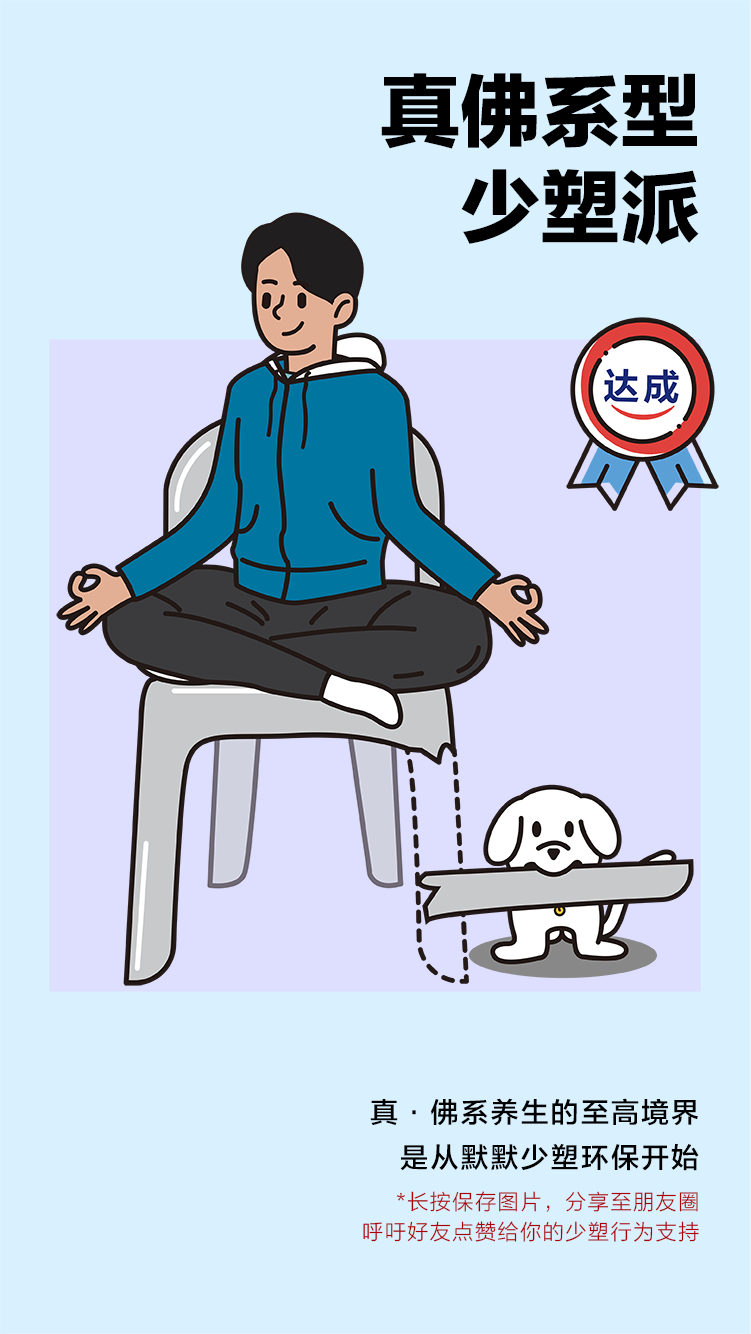
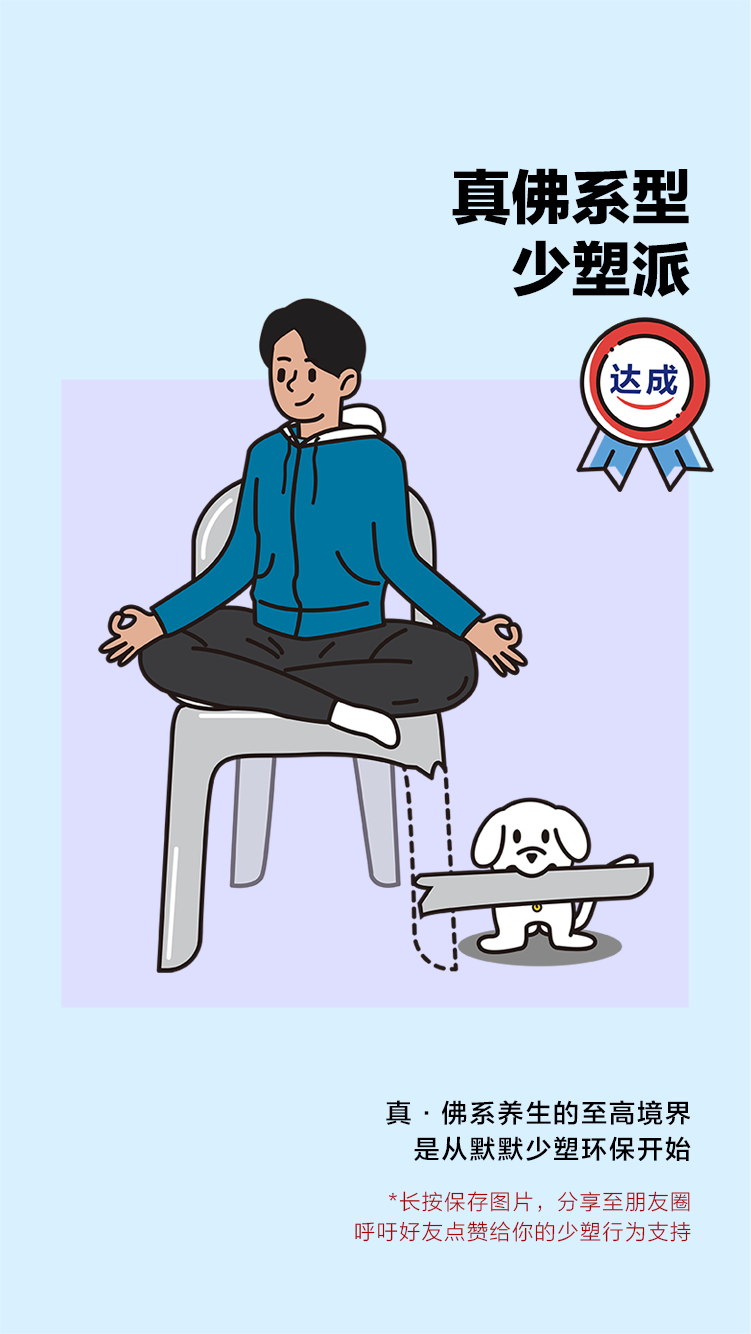
over

Changed region(s): [[0.0613, 0.1537, 0.9188, 0.7376], [0.49, 0.0307, 0.9494, 0.3996], [0.49, 0.7991, 0.9494, 0.9528]]

diff --git a/src/views/danone.vue b/src/views/danone.vue
@@ -1,12 +1,12 @@
 <template>
-    <div style="overflow: hidden;height: 100vh;">
+    <div :class="{isBegin:isBegin}">
         <Loading v-show="showLoading"></Loading>
-        <div class="swiper-container">
+        <div class="swiper-container" v-show="isBegin && !isOver">
             <div class="swiper-wrapper">
                 <!-- 第一屏 -->
                 <div class="swiper-slide swiper-no-swiping">
                     <div class="slide1">
-                        <img class="slide1_bg" src="../images/1111.png" alt="">
+                        <img class="slide1_bg" src="../images/danone/111.png" alt="">
                         <div class="arrow" @click="next('one')">
                             <img src="../images/danone/01arrow.png" alt="">
                         </div>
@@ -15,8 +15,8 @@
                 <!-- 第二屏 -->
                 <div class="swiper-slide swiper-no-swiping">
                     <div class="slide2">
-                        <img class="slide2_bg" src="../images/2222.png" alt="">
-                        <input class="nickname" v-model='name' @blur="blur" placeholder="edit me" />
+                        <img class="slide2_bg" src="../images/danone/222.png" alt="">
+                        <input class="nickname" v-model='name' @blur="blur" placeholder="请填写昵称" />
                         <div class="choose-sex">
                             <div class="sex" @click="choose('man')">
                                 <img :src="man" alt="">
@@ -75,7 +75,10 @@
                         <img class="save_bg" :src="save_bg_img" alt="">
                         <div class="name">
                             <div v-cloak>恭喜{{name}}</div>
-                            <div class="g"><div>喜</div><div>提</div></div>
+                            <div class="g">
+                                <div>喜</div>
+                                <div>提</div>
+                            </div>
                         </div>
                         <div class="save_img">
                             <img v-show="activeIndex == 5 && lrzImage" :src="lrzImage" alt="">
@@ -87,6 +90,8 @@
                 </div>
             </div>
         </div>
+        <img style="width:750px;" src="../images/danone/not_started.jpg" alt="" v-show="!isBegin && !isOver">
+        <img style="width:750px;" src="../images/danone/isOver.jpg" alt="" v-show="!isBegin && isOver">
     </div>
 </template>
 
@@ -176,7 +181,9 @@ export default {
                 wd: "7.48rem"
             },
             save_bg_img: "", //图片背景
-            saveImgSrc:''//保存图片路径
+            saveImgSrc: "", //保存图片路径
+            isBegin:false,
+            isOver:false
         };
     },
     components: {
@@ -184,19 +191,28 @@ export default {
     },
     watch: {
         save_bg_img(nowVal, oldVal) {
-            if(nowVal != oldVal){
-                setTimeout(()=>{
+            if (nowVal != oldVal) {
+                setTimeout(() => {
                     this.upload();
-                },500)
+                }, 500);
             }
         }
     },
     mounted() {
         // this.initWeChat();
-        this.initSwiper();
-        window.addEventListener("scroll", () => {
-            if (window.scrollY > 0 && this.name != "") {
-                window.scrollTo(0, 0);
+        this.ajax(res => {
+            if(res < 1534867200000){
+                this.isBegin = false;
+            }else if(res > 1535126399000){
+                this.isOver = true;
+            }else{
+                this.isBegin = true;
+                this.initSwiper();
+                window.addEventListener("scroll", () => {
+                    if (window.scrollY > 0 && this.name != "") {
+                        window.scrollTo(0, 0);
+                    }
+                });
             }
         });
     },
@@ -249,7 +265,7 @@ export default {
                 this.mySwiper.slideNext();
             } else if (num == "two") {
                 if (this.name.length == 0 || this.name.length > 6) {
-                    this.$toast.center("请填写不多于6个字的昵称");
+                    this.$toast.center("昵称不能超过六个字哦~");
                 } else if (this.choose_sex == "") {
                     this.$toast.center("请选择性别");
                 } else {
@@ -262,7 +278,7 @@ export default {
                 this.mySwiper.slideNext();
             } else if (num == "five") {
                 if (!this.lrzImage) {
-                    this.$toast.center("请选择一张照片");
+                    this.$toast.center("请上传照片");
                     return;
                 } else {
                     this.mySwiper.slideNext();
@@ -316,20 +332,21 @@ export default {
                 return;
             }
             _this.showLoading = true;
-            lrz(e.target.files[0]).then(function(rst) {
-                if (rst.base64Len > 1024 * 1024 * 4) {
+            lrz(e.target.files[0])
+                .then(function(rst) {
+                    if (rst.base64Len > 1024 * 1024 * 4) {
+                        _this.lrzImage = "";
+                        _this.$toast.center("图片不能超过4MB");
+                        return;
+                    } else {
+                        _this.showLoading = false;
+                        _this.lrzImage = rst.base64;
+                    }
+                })
+                .catch(function(err) {
                     _this.lrzImage = "";
-                    _this.$toast.center("图片不能超过4MB");
-                    return;
-                } else {
-                    _this.showLoading = false;
-                    _this.lrzImage = rst.base64;
-                }
-            })
-            .catch(function(err) {
-                _this.lrzImage = "";
-                _this.$toast.center("压缩图片失败");
-            });
+                    _this.$toast.center("压缩图片失败");
+                });
         },
         //关闭预览
         close() {
@@ -385,12 +402,27 @@ export default {
                 this.showLoading = false;
             });
         },
-
-
-
-
-
-
+        ajax(callback) {
+            var xhr = null;
+            if (window.XMLHttpRequest) {
+                xhr = new window.XMLHttpRequest();
+            } else {
+                // ie
+                xhr = new ActiveObject("Microsoft");
+            }
+            // 通过get的方式请求当前文件
+            xhr.open("get", "/");
+            xhr.send(null);
+            // 监听请求状态变化
+            xhr.onreadystatechange = function() {
+                var time = null;
+                if (xhr.readyState === 2) {
+                    // 获取响应头里的时间戳
+                    time = xhr.getResponseHeader("Date");
+                    callback(new Date(time).getTime());
+                }
+            };
+        },
 
         //合成图片
         compositePicture(res) {
@@ -424,9 +456,11 @@ export default {
         },
 
         initWeChat() {
-            return app.api.wxConfig.config({
+            return app.api.wxConfig
+                .config({
                     url: location.href.split("#")[0]
-                }).then(data => {
+                })
+                .then(data => {
                     if (data.status == 200) {
                         wxSdk.config(data.data);
                         wxSdk.shareFriend({
@@ -447,12 +481,14 @@ export default {
 .slide1 {
     height: 100vh;
     display: flex;
-    align-content: center;
-    align-items: center;
+    flex-direction: column;
+    align-items: flex-end;
+    justify-content: center;
     background: #cceaff;
     position: relative;
     .slide1_bg {
-        width: 750px;
+        // width: 750px;
+        width: 684px;
     }
     .arrow {
         position: absolute;
@@ -480,7 +516,7 @@ export default {
     position: relative;
     // @media only screen and (max-width: 320px) {
     .slide2_bg {
-        width: 673px;
+        width: 616px;
     }
     // }
     // @media only screen and (min-width: 321px) and (max-width: 414px) {
@@ -715,8 +751,8 @@ export default {
         font-family: Lantinghei SC;
         font-weight: bold;
         display: inline-block;
-        top: 64px;
-        left: 50px;
+        top: 106px;
+        left: 60px;
         .g {
             width: 100%;
             display: flex;
@@ -727,11 +763,11 @@ export default {
     }
     .save_img {
         position: absolute;
-        width: 200px;
-        height: 260px;
+        width: 170px;
+        height: 200px;
         background: #fff;
-        bottom: 50px;
-        left: 50px;
+        bottom: 30px;
+        left: 60px;
         overflow: hidden;
         display: flex;
         flex-direction: column;
@@ -742,17 +778,35 @@ export default {
             width: 90%;
         }
     }
-    .save_img_content{
+    .save_img_content {
         position: absolute;
         width: 100%;
         height: 100vh;
         top: 0;
         left: 0;
         opacity: 0;
-        img{
+        img {
             width: 100%;
         }
     }
+}
+@keyframes buttonPulse {
+    from {
+        background-color: #1e6a0f;
+        -webkit-box-shadow: 0 0 25px #333;
+    }
+    50% {
+        background-color: #39ba1f;
+        -webkit-box-shadow: 0 0 75px #39ba1f;
+    }
+    to {
+        background-color: #1e6a0f;
+        -webkit-box-shadow: 0 0 25px #333;
+    }
+}
+.isBegin{
+    overflow: hidden;
+    height: 100vh;
 }
 @import "../../node_modules/swiper/dist/css/swiper.min.css";
 </style>

diff --git a/index.html b/index.html
@@ -39,5 +39,4 @@
     <div id="app"></div>
     <!-- built files will be auto injected -->
   </body>
-  <!-- <script>!function(e){function t(a){if(i[a])return i[a].exports;var n=i[a]={exports:{},id:a,loaded:!1};return e[a].call(n.exports,n,n.exports,t),n.loaded=!0,n.exports}var i={};return t.m=e,t.c=i,t.p="",t(0)}([function(e,t){"use strict";Object.defineProperty(t,"__esModule",{value:!0});var i=window;t["default"]=i.flex=function(e,t){var a=e||100,n=t||1,r=i.document,o=navigator.userAgent,d=o.match(/Android[\S\s]+AppleWebkit\/(\d{3})/i),l=o.match(/U3\/((\d+|\.){5,})/i),c=l&&parseInt(l[1].split(".").join(""),10)>=80,p=navigator.appVersion.match(/(iphone|ipad|ipod)/gi),s=i.devicePixelRatio||1;p||d&&d[1]>534||c||(s=1);var u=1/s,m=r.querySelector('meta[name="viewport"]');m||(m=r.createElement("meta"),m.setAttribute("name","viewport"),r.head.appendChild(m)),m.setAttribute("content","width=device-width,user-scalable=no,initial-scale="+u+",maximum-scale="+u+",minimum-scale="+u),r.documentElement.style.fontSize=a/2*s*n+"px"},e.exports=t["default"]}]);  flex(100, 1);</script> -->
 </html>
